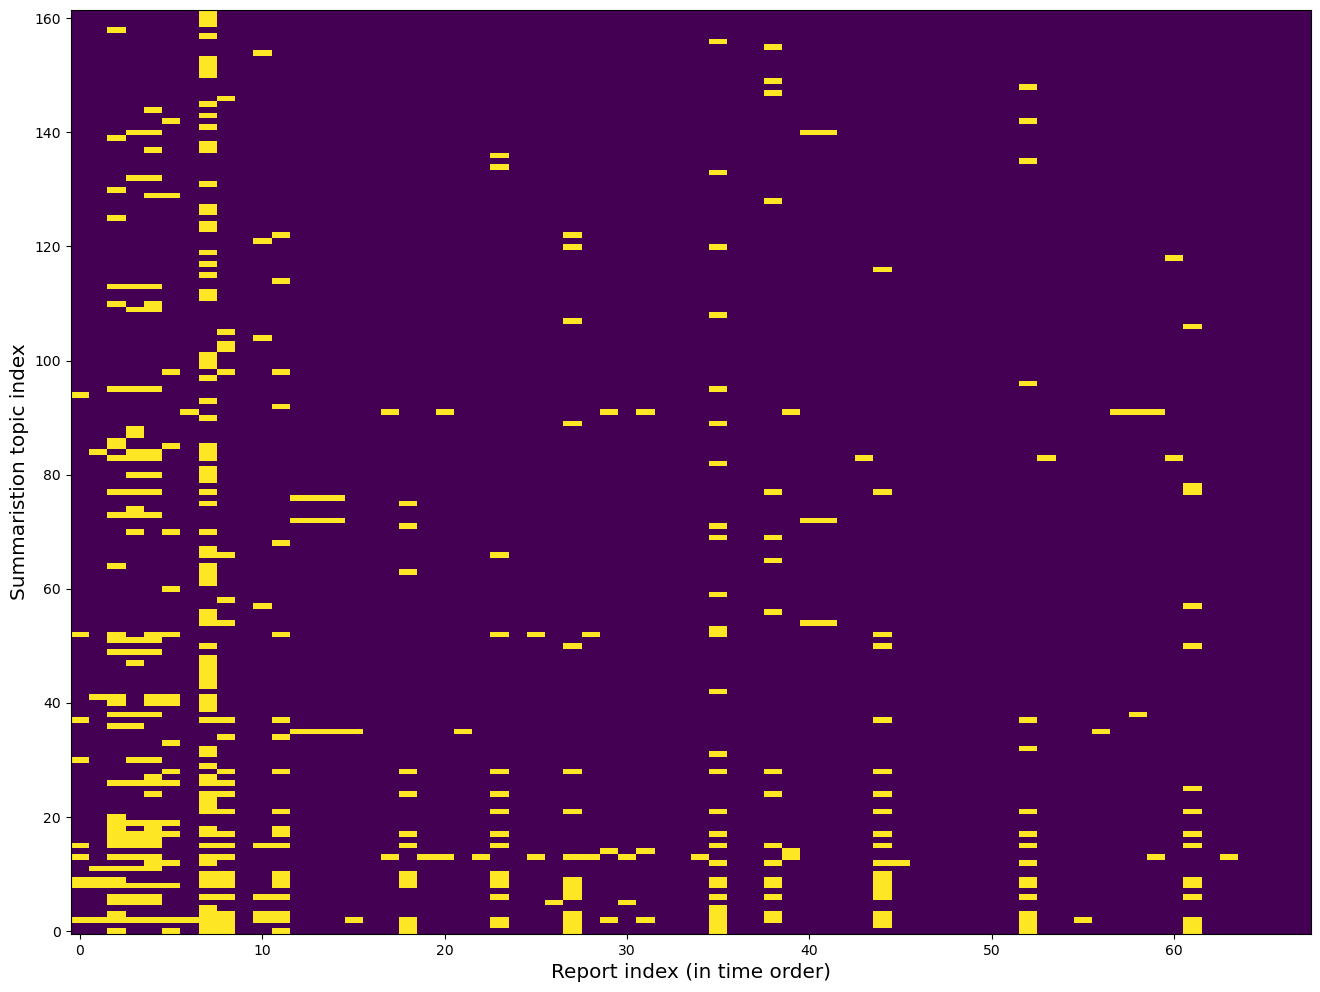
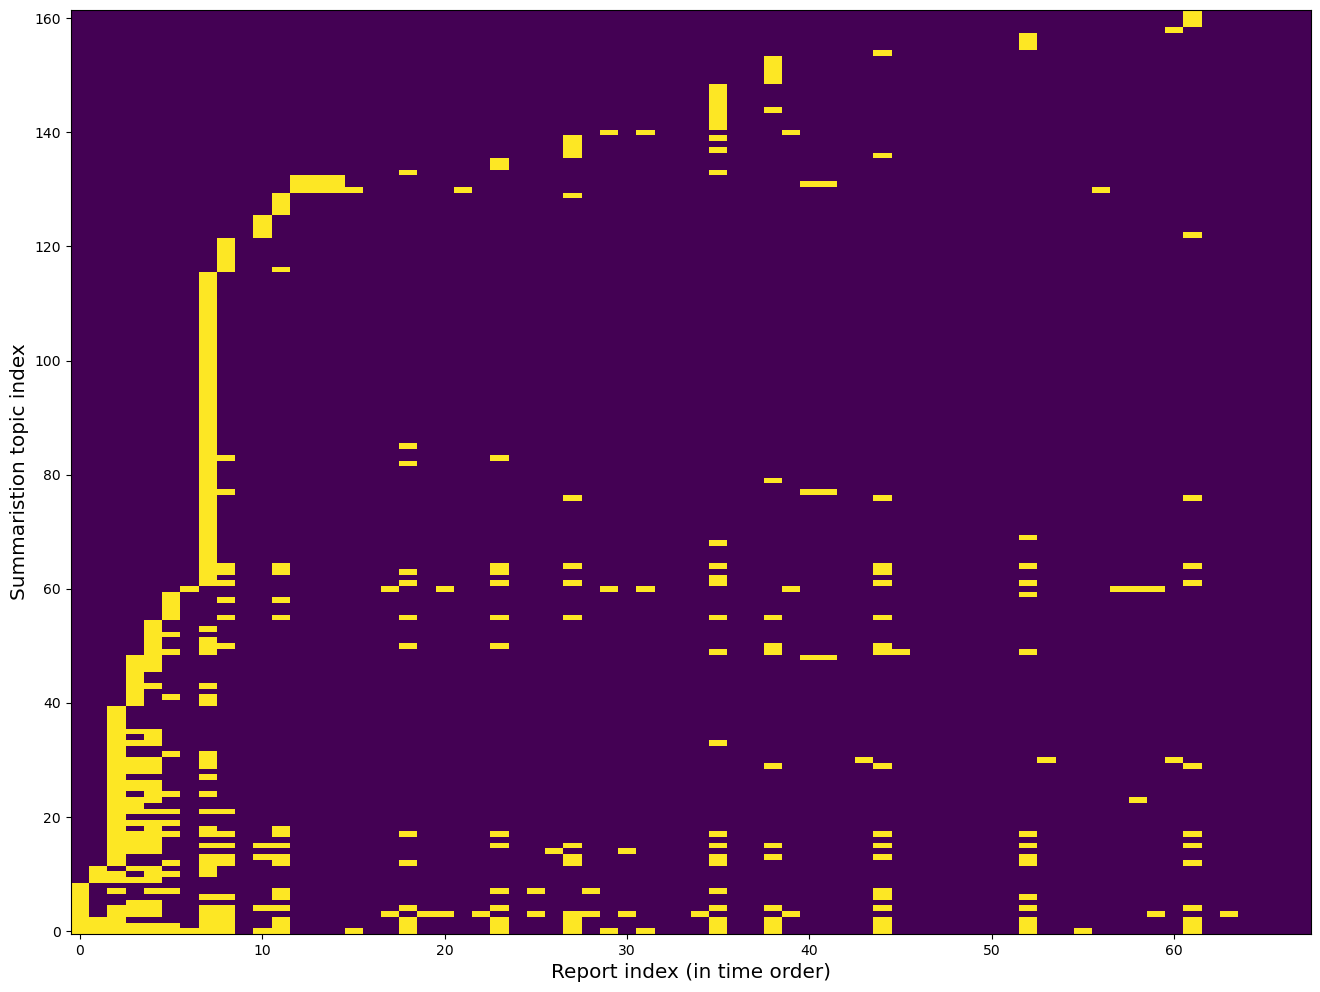
Topic order changed
Topics are now in order of appearance in the report sequence. NetworkX was providing this as a side-effect of the order of insertion of mapping list nodes into the graph. The ordering is now an explicit operation on the topic-report matrix.

diff --git a/diffusion.html b/diffusion.html
@@ -16,6 +16,13 @@
 			<p>
 				Diffusion tracks summarisation topics across a time series of reports. The diagrams below are representations of a Boolean valued topic-report matrix
 				for  the agreement <em>Revitalised Agreement on the Resolution of the Conflict in the Republic of South Sudan (R-ARCSS)</em>.
+				Topics are arranged in order of first appearance in the report sequence. The matrix provide information about:
+				<ul>
+					<li>Which summarisation topics are mentioned most (row marginals)</li>
+					<li>Which reports mention the most summarisation topics (column marginals)</li>
+					<li>When a summarisation topic first appears in the report sequence</li>
+					<li>Clustering of summarisation topics</li>
+				</ul>
 				Analysis of matrix row marginals will provide information about which topics are mentioned most, and column marginals information about which reports mention the most topics.
 			</p>
 			<p>
